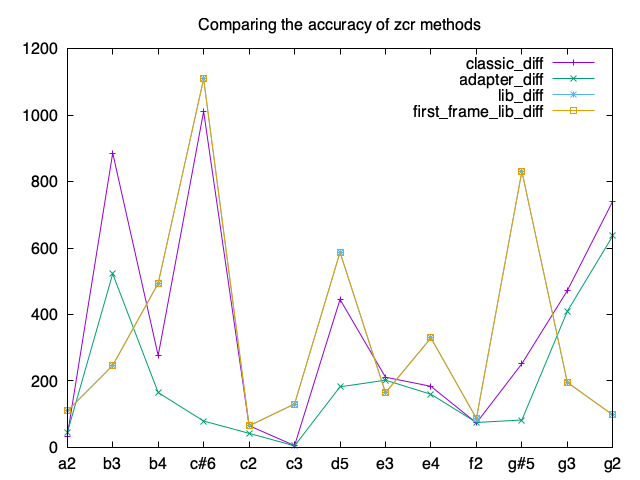
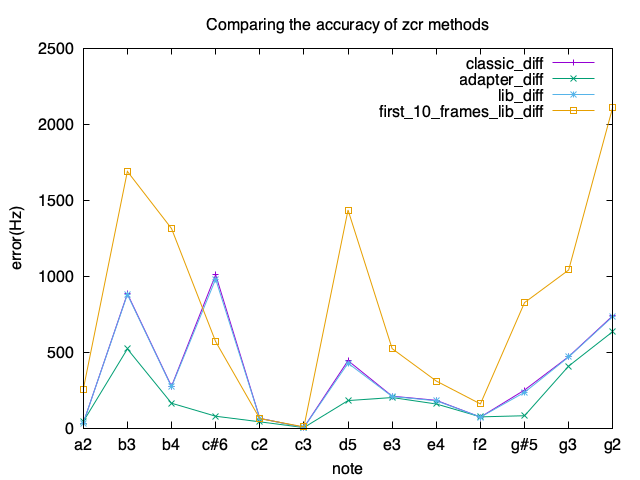
Update the experiment script and talk about the results in readme

diff --git a/experiments/note_detection.py b/experiments/note_detection.py
@@ -14,9 +14,9 @@ def dat_file_format(res, file_name=""):
         printer = lambda text: file.write(text + '\n')  
     else : 
         printer = print
-    printer("note classic_diff adapter_diff lib_diff first_10_frames_lib_diff freq")
+    printer("note classic_diff adapter_diff lib_diff first_10_frames_lib_diff freq classic adapter lib first_10_frames_lib")
     for v in res:
-        printer(f"{v['note']} {v['classic']['diff']:.3f} {v['adapted']['diff']:.3f} {v['lib']['diff']:.3f} {v['lib_1_frame']['diff']:.3f} {v['freq']}")
+        printer(f"{v['note']} {v['classic']['diff']:.3f} {v['adapted']['diff']:.3f} {v['lib']['diff']:.3f} {v['lib_1_frame']['diff']:.3f} {v['freq']:.3f} {v['classic']['value']:.3f} {v['adapted']['value']:.3f} {v['lib']['value']:.3f} {v['lib_1_frame']['value']:.3f}")
 def print_result(res):      
     for v in res:
         print(f"note : {v['note']} ; classic : value = {v['classic']['value']}, diff = {v['classic']['diff']} ; adapted : value = {v['adapted']['value']} , diff = {v['adapted']['diff'] }");
@@ -52,9 +52,9 @@ def main():
         classic_zcr = frequency_zcr_classic(sig, sr)
         adapted_zcr = frequency_zcr_adapted(sig, sr) 
         lib_zcr_vect = librosa.feature.zero_crossing_rate(sig)
-        lib_zcr = lib_zcr_vect.mean() 
-        first_10_frames_lib_zcr = lib_zcr_vect[0,10] 
-        res.append({'note': k, 'freq' : v['freq'] , 'classic' : { 'value' : classic_zcr, 'diff': abs(v['freq'] - classic_zcr)  } , 'adapted' : { 'value' : adapted_zcr, 'diff' :  abs(v['freq'] - adapted_zcr)}, 'lib' : { 'value' : lib_zcr, 'diff' :  abs(v['freq'] - lib_zcr)} , 'lib_1_frame' : { 'value' : first_10_frames_lib_zcr, 'diff' :  abs(v['freq'] - first_frame_lib_zcr)}})
+        lib_zcr = lib_zcr_vect.mean() * sr / 2  
+        first_10_frames_lib_zcr = lib_zcr_vect[0,10] * sr / 2 
+        res.append({'note': k, 'freq' : v['freq'] , 'classic' : { 'value' : classic_zcr, 'diff': abs(v['freq'] - classic_zcr)  } , 'adapted' : { 'value' : adapted_zcr, 'diff' :  abs(v['freq'] - adapted_zcr)}, 'lib' : { 'value' : lib_zcr, 'diff' :  abs(v['freq'] - lib_zcr)} , 'lib_1_frame' : { 'value' : first_10_frames_lib_zcr, 'diff' :  abs(v['freq'] - first_10_frames_lib_zcr)}})
         ## Plotting the waves 
         plt.figure(figsize=(10,7))
         librosa.display.waveshow(sig, alpha=0.5)

diff --git a/README.md b/README.md
@@ -5,10 +5,18 @@ To work on the project, I need to understand some concepts about the sound proce
 
 # Pitch Detection 
 ## ZCR
-first experiment would be detecting multiple musical notes using ZCR and comparing the classical methodology and the proposed methodology form musical notes in [1].  
+first experiment would be detecting multiple musical notes using ZCR and comparing the classical methodology and the proposed methodology form musical notes in [1]. I also added the librosa library zcr which calculates the zcr for each frame and taking in consideration a hop_size too, I calculated the average of zcr on the frames of the audios, and also the average of just taking the first 10 frames( as i noticed the audio is loud at first that it get's less loud, so I was curious if calculting the avg of the entire audio will affect the calculation and give a bigger error )   
 
+![Compare error](experiments/comparing_zcr_methods.png)
 
+It looks like the adapter is the most accurate method out of the 4 . 
 
+but just calculating the diff between the real frequency of the pitch and the frequency calculated by the method is not enough to determine which method is better. 
+As Human perception of pitch is logarithmic (base 2) rather than linear, the error depends also on the frequency value. 
+Instead of re-calculating the error taking in consideration the real frequency of a pitch, I opted for plotting the pitch freqency and the frequencies calculated by different method, and present them on a $log_2$ scale. We can notice that the 'adapted' method from the paper is always the most accurate.  
+![Compare freqencies](experiments/pitch_freq_plot_zcr.png)
+
+ But still the results are not promessing. So using ZCR is not really viable for me. 
 # References
 [1] R. G. Amado and J. V. Filho, "Pitch detection algorithms based on zero-cross rate and autocorrelation function for musical notes," 2008 International Conference on Audio, Language and Image Processing, Shanghai, China, 2008, pp. 449-454, doi: 10.1109/ICALIP.2008.4590188. 
 
